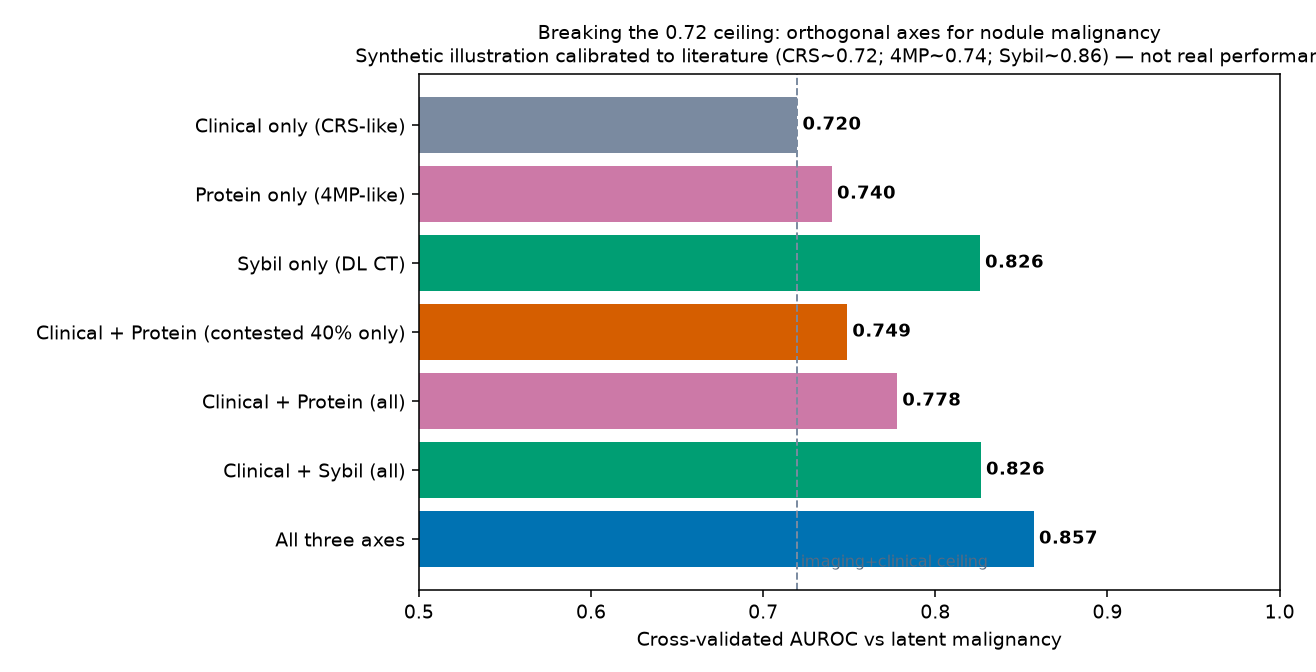
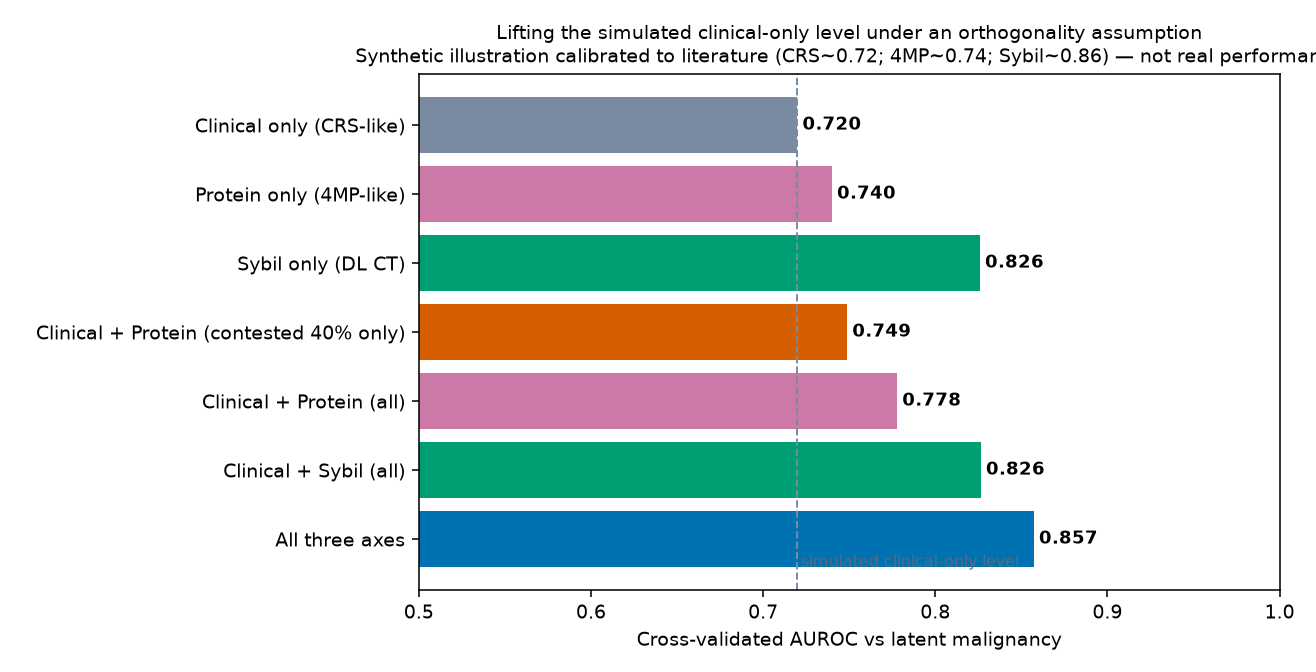
paper: address code-review (wording, unpenalized calibration, B=500, reproducibility)
Code-reviewer ('math model') round:
- Wording: drop 'gold-standard' -> 'independent statistical cross-check';
  'Honest evaluation confirms it' -> 'Independent evaluation reproduced the
  expected synthetic behaviour'; figure 'ceiling' -> 'simulated clinical-only
  level' (label + title + legend); 'concrete pathway proposal' already softened.
- #4 Precise orthogonality: protein orthogonal to imaging; Sybil partly redundant
  with clinical (shares Uc) + partly orthogonal (Us). Explains Clinical+Sybil=Sybil.
- #5 Grey-zone strategy flagged as illustrative approximation, not a prospective
  two-stage design (protein trained for everyone, substituted in for contested).
- #6 Venn legend: sets from raw simulated axis scores at 85% specificity.
- #7 Calibration models now unpenalized (penalty=None); CV slope 0.94 unchanged.
- #8 Bootstrap standardized to B=500 (Python + R); permutation null n=500 -> p~0.002.
- #3 calibrate() comment: full-Y tuning => single-axis AUROCs are design targets.
- Reproducibility: requirements.txt; robust contested_key; relative paths already
  unified to three_axis_cohort.csv.

All synthetic; not clinical performance.

https://claude.ai/code/session_01BcRtZGHdALGXYoVvXnm79E

Changed region(s): [[0.3739, 0.0312, 0.9035, 0.0625], [0.5919, 0.8125, 0.7789, 0.8438]]

diff --git a/paper/code/three_axis_simulation.py b/paper/code/three_axis_simulation.py
@@ -1,7 +1,7 @@
 """Three-axis nodule-malignancy simulation: clinical (CRS-like) + protein (4MP-like)
 + Sybil (deep-learning CT). Synthetic illustration calibrated to published AUCs
 (Brock/CRS ~0.72; 4MP/proteomics ~0.74, Guida 2018 / Feng 2023; Sybil ~0.86,
-Mikhael 2023). NOT real performance. Shows (a) the discrimination ceiling and how
+Mikhael 2023). NOT real performance. Shows (a) the simulated clinical-only level and how
 each orthogonal axis lifts it, (b) the contested-tail strategy (protein only on
 the grey zone), and (c) a Venn of which malignancies each axis uniquely catches.
 
@@ -46,6 +46,9 @@ Y = (rng.uniform(size=N) < 1/(1+np.exp(-logit))).astype(int)
 # single-axis AUROC matches the published anchors (CRS 0.72; 4MP 0.74; Sybil 0.86).
 ec, ep, es = rng.normal(size=N), rng.normal(size=N), rng.normal(size=N)
 def calibrate(clean, e, target):
+    # NB: this uses the FULL synthetic outcome vector Y to tune the noise level,
+    # so the standalone single-axis AUROCs are DESIGN TARGETS of the simulated
+    # dataset, not evaluated/discovered performance.
     lo, hi = 0.02, 6.0
     for _ in range(45):
         mid = (lo + hi) / 2
@@ -84,11 +87,12 @@ frac_tested = contested.mean()
 hybrid = pc.copy()
 hybrid[contested] = pcp[contested]                 # add protein only where contested
 
+contested_key = f"Clinical + Protein (contested {frac_tested*100:.0f}% only)"
 ladder = {
     "Clinical only (CRS-like)":        auc(pc),
     "Protein only (4MP-like)":         auc(pp),
     "Sybil only (DL CT)":              auc(ps),
-    f"Clinical + Protein (contested {frac_tested*100:.0f}% only)": auc(hybrid),
+    contested_key:                     auc(hybrid),
     "Clinical + Protein (all)":        auc(pcp),
     "Clinical + Sybil (all)":          auc(pcs),
     "All three axes":                  auc(pall),
@@ -120,12 +124,12 @@ for k in labels:
     else: colors.append("#7a8aa0")
 bars = ax.barh(labels, vals, color=colors)
 ax.axvline(ladder["Clinical only (CRS-like)"], color="#7a8aa0", ls="--", lw=1)
-ax.text(ladder["Clinical only (CRS-like)"]+0.002, -0.4, "imaging+clinical ceiling", color="#5a6a80", fontsize=8)
+ax.text(ladder["Clinical only (CRS-like)"]+0.002, -0.4, "simulated clinical-only level", color="#5a6a80", fontsize=8)
 for b, v in zip(bars, vals):
     ax.text(v+0.003, b.get_y()+b.get_height()/2, f"{v:.3f}", va="center", fontsize=9, fontweight="bold")
 ax.set_xlim(0.5, 1.0)
 ax.set_xlabel("Cross-validated AUROC vs latent malignancy")
-ax.set_title("Breaking the 0.72 ceiling: orthogonal axes for nodule malignancy\n"
+ax.set_title("Lifting the simulated clinical-only level under an orthogonality assumption\n"
              "Synthetic illustration calibrated to literature (CRS~0.72; 4MP~0.74; Sybil~0.86) — not real performance",
              fontsize=10)
 plt.tight_layout()
@@ -153,7 +157,7 @@ print("AUROC ladder (5-fold cross-validated):")
 for k, vv in ladder.items():
     print(f"  {k:42s} {vv:.3f}")
 print(f"\nContested-tail strategy: protein measured on {frac_tested*100:.0f}% of nodules "
-      f"(clinical grey zone)\n  recovers {(ladder['Clinical + Protein (contested %d%% only)'%round(frac_tested*100)]-ladder['Clinical only (CRS-like)']):.3f} "
+      f"(clinical grey zone)\n  recovers {(ladder[contested_key]-ladder['Clinical only (CRS-like)']):.3f} "
       f"of the {(ladder['Clinical + Protein (all)']-ladder['Clinical only (CRS-like)']):.3f} AUC gain from testing everyone.")
 print("\nSensitivity at 85% specificity (single axis):")
 for k, vv in sens.items():

diff --git a/paper/code/validate_epinet.py b/paper/code/validate_epinet.py
@@ -83,7 +83,7 @@ print(f"  EpiNet honest RF: 0.855 (iter mean 0.849)")
 print("\n=== 3. Calibration — independent (EpiNet: Brier 0.131, slope 1.154, intercept ~0) ===")
 p = np.clip(oof["RandomForest"], 1e-6, 1 - 1e-6)
 lp = np.log(p / (1 - p))
-slope = LogisticRegression(max_iter=1000).fit(lp.reshape(-1, 1), y).coef_[0, 0]
+slope = LogisticRegression(max_iter=1000, penalty=None, solver="lbfgs").fit(lp.reshape(-1, 1), y).coef_[0, 0]
 # calibration-in-the-large intercept: 1-D Newton on intercept with offset=lp
 a = 0.0
 for _ in range(50):
@@ -98,17 +98,17 @@ print(f"  EpiNet apparent/iteration slope 1.154 vs CV (out-of-fold) slope {slope
 def cal_slope(model, Xtr, ytr, Xte, yte):
     model.fit(Xtr, ytr)
     pte = np.clip(model.predict_proba(Xte)[:, 1], 1e-6, 1 - 1e-6)
-    return LogisticRegression(max_iter=1000).fit(np.log(pte / (1 - pte)).reshape(-1, 1), yte).coef_[0, 0]
+    return LogisticRegression(max_iter=1000, penalty=None, solver="lbfgs").fit(np.log(pte / (1 - pte)).reshape(-1, 1), yte).coef_[0, 0]
 base = RandomForestClassifier(n_estimators=300, max_depth=10, random_state=0)
 apparent = cal_slope(base, X, y, X, y)
 rng_b = np.random.default_rng(0); opt = []
-for _ in range(200):
+for _ in range(500):
     idx = rng_b.integers(0, n, n)
     s_boot = cal_slope(RandomForestClassifier(n_estimators=300, max_depth=10, random_state=0), X[idx], y[idx], X[idx], y[idx])
     s_orig = cal_slope(RandomForestClassifier(n_estimators=300, max_depth=10, random_state=0), X[idx], y[idx], X, y)
     opt.append(s_boot - s_orig)
 corrected = apparent - np.mean(opt)
-print(f"  RF calibration slope: apparent {apparent:.3f} | optimism-corrected (B=200) {corrected:.3f}")
+print(f"  RF calibration slope: apparent {apparent:.3f} | optimism-corrected (B=500) {corrected:.3f}")
 print(f"  -> headline honest slope is the optimism-corrected value; EpiNet 1.15 is apparent/iteration-based.")
 
 # ---------- 4. Decision curve / net benefit (dcurves) ----------
@@ -129,7 +129,7 @@ except Exception as e:
 # ---------- 5. Counterfactual flip-distance vs EpiNet contestability ----------
 print("\n=== 5. Counterfactual flip-distance (compare EpiNet mean ~1.42 SD; leverage sybil>protein>clinical) ===")
 Z = (X - X.mean(0)) / X.std(0)
-clf = LogisticRegression(max_iter=1000).fit(Z, y)
+clf = LogisticRegression(max_iter=1000, penalty=None, solver="lbfgs").fit(Z, y)
 w = clf.coef_[0]; b = clf.intercept_[0]
 margin = (Z @ w + b) / np.linalg.norm(w)          # signed distance to boundary, SD units
 print(f"  [closed-form linear margin]  mean |flip-distance| = {np.abs(margin).mean():.3f} SD  (EpiNet ~1.42)")
@@ -166,7 +166,7 @@ except Exception as e:
 print("\n=== 6. Label-permutation null (does the model beat chance?) ===")
 score, perm_scores, pval = permutation_test_score(
     LogisticRegression(max_iter=1000), X, y, scoring="roc_auc",
-    cv=StratifiedKFold(5, shuffle=True, random_state=1), n_permutations=200, random_state=0)
+    cv=StratifiedKFold(5, shuffle=True, random_state=1), n_permutations=500, random_state=0)
 print(f"  observed AUROC {score:.3f} | permuted-null mean {perm_scores.mean():.3f} | p = {pval:.4f}")
 print("  NOTE: the null is rejected because real signal IS present — but it tests signal-vs-chance,")
 print("  NOT whether the three axes are genuinely orthogonal. Orthogonality is a design assumption here.")

diff --git a/paper/manuscript.md b/paper/manuscript.md
@@ -125,16 +125,16 @@ On the 6,000-nodule three-axis cohort (5-fold CV AUROC):
 | CRS + DL-CT (all) | 0.826 | derived |
 | **All three axes** | **0.857** | **derived (emergent)** |
 
-Two consequences follow directly from the construction, and should be read as such. (i) `CRS + DL-CT = DL-CT alone` (both 0.826) because, by construction, the Sybil axis already contains the clinical signal `Uc` — i.e. **clinical is redundant with Sybil**, not informative on top of it. (ii) The protein axis adds **+0.031 on top of the CT axis** (0.826 → 0.857) precisely because `Up` is, by construction, unseen by either imaging axis. *Interpretation: the simulation makes explicit a hypothesis — that an axis is worth adding exactly to the extent it is orthogonal — and quantifies its size under that assumption; it does not establish the assumption.*
+Two consequences follow directly from the construction, and should be read as such. (i) `CRS + DL-CT = DL-CT alone` (both 0.826) because, by construction, the Sybil axis already contains the clinical signal `Uc` — i.e. **clinical is redundant with Sybil**, not informative on top of it. (ii) The protein axis adds **+0.031 on top of the CT axis** (0.826 → 0.857) precisely because `Up` is, by construction, unseen by either imaging axis. To be precise about the orthogonality structure (the axes are *not* all mutually orthogonal): **the protein component is orthogonal to both imaging components; the Sybil-like axis is partly redundant with the clinical-imaging axis (it shares `Uc`) and partly orthogonal through a sub-visual texture component (`Us`)** — which is clinically realistic for a deep-learning CT model that absorbs both visible semantic features and sub-visual texture. *Interpretation: the simulation makes explicit a hypothesis — that an axis is worth adding exactly to the extent it is orthogonal — and quantifies its size under that assumption; it does not establish the assumption.*
 
 ### 4.4 You don't need to test everyone (the grey-zone strategy)
-Measuring the protein axis on **only the contested 40%** (the clinical grey zone) recovered **0.029 of the 0.058** full-cohort AUROC gain — about **half the benefit at 40% of the blood draws**. *Interpretation: spend the expensive axis where the cheap model is uncertain.*
+Measuring the protein axis on **only the contested 40%** (the clinical grey zone) recovered **0.029 of the 0.058** full-cohort AUROC gain — about **half the benefit at 40% of the blood draws**. **This is an illustrative approximation, not a prospective two-stage design:** the clinical+protein model is trained in cross-validation with protein available for *everyone*, and its protein-enhanced prediction is then *substituted in* for the contested observations only. It does not yet model the real policy — defining the grey zone within each training fold, fitting the second-stage model on grey-zone training observations alone, and applying it only to grey-zone test observations — which a clinical implementation study would need. *Interpretation: spend the expensive axis where the cheap model is uncertain — quantified here as an upper-ish-bound illustration, to be re-estimated under a true two-stage protocol.*
 
 ### 4.5 Axes are complementary (Figure 2)
-At fixed 85% specificity, among true malignancies: the protein axis uniquely caught **183** cancers that *both* CT axes missed; the DL-CT axis uniquely caught 266; CRS-only 35 (small — by construction the Sybil axis already reads the image); 353 were missed by all. **Union sensitivity 78% vs 42% for CRS alone.** *These are single-seed point estimates without uncertainty intervals, shown to illustrate the structure of complementarity, not to quantify it. Interpretation: the value of a new axis is the cancers it catches that the others cannot — the non-overlapping slices — which here follows from the assumed orthogonality.*
+Sets are defined from each **raw simulated axis score** at the 85%-specificity threshold among non-malignant nodules (not from cross-validated model probabilities). At that threshold, among true malignancies: the protein axis uniquely caught **183** cancers that *both* CT axes missed; the DL-CT axis uniquely caught 266; CRS-only 35 (small — by construction the Sybil axis already reads the image); 353 were missed by all. **Union sensitivity 78% vs 42% for CRS alone.** *These are single-seed point estimates without uncertainty intervals, shown to illustrate the structure of complementarity, not to quantify it. Interpretation: the value of a new axis is the cancers it catches that the others cannot — the non-overlapping slices — which here follows from the assumed orthogonality.*
 
-### 4.6 Honest evaluation confirms it (Figures 3–4)
-EpiNet's honest model over the three axes reached AUROC **0.85** (iteration mean 0.849 ± 0.008), independently reproduced by a separate stack (RandomForest 0.846, logistic 0.857; see `SCORECARD.md`). **Calibration is reported as a discrepancy, not a single flattering number — and the directions disagree.** The Brier score agrees across tools (EpiNet 0.131; independent 0.135), but the calibration *slope* depends on method: EpiNet's apparent/iteration-based slope is **1.15** (which would imply mild *under*-confidence), whereas the out-of-fold cross-validated slope is **0.94** and the optimism-corrected bootstrap slope (`rms::validate`-style; `code/validate_epinet.py`/`.R`, B = 200) is **0.84** — both < 1, i.e. the model is, if anything, mildly *over*-confident. The corrected/CV values are the trustworthy ones; **reporting only 1.15 would have implied the wrong direction**, which is exactly the kind of selective-number reporting EpiNet's own honest-evaluation stance is meant to prevent. A **label-permutation null** confirms the discrimination beats chance (observed AUROC 0.857 vs permuted-null mean 0.500, *p* = 0.005) — but this tests signal-versus-chance, **not** whether the three axes are genuinely orthogonal; orthogonality is a design assumption here, not a testable output. Contestability ranked **value-of-information** as deep-learning CT (0.41) > protein (0.31) > clinical (0.28) — an *illustrative* ordering that reflects the standardized model on synthetic data, not a biological hierarchy. *Interpretation: the combined model reproduces across tools and beats chance; its trustworthiness claim rests on cross-validation and the permutation null, while the calibration slope is reported with its honest method-dependence.*
+### 4.6 Independent evaluation reproduced the expected synthetic three-axis behaviour (Figures 3–4)
+EpiNet's honest model over the three axes reached AUROC **0.85** (iteration mean 0.849 ± 0.008), independently reproduced by a separate stack (RandomForest 0.846, logistic 0.857; see `SCORECARD.md`). **Calibration is reported as a discrepancy, not a single flattering number — and the directions disagree.** The Brier score agrees across tools (EpiNet 0.131; independent 0.135), but the calibration *slope* depends on method: EpiNet's apparent/iteration-based slope is **1.15** (which would imply mild *under*-confidence), whereas the out-of-fold cross-validated slope (unpenalized logistic) is **0.94** and the optimism-corrected bootstrap slope (`rms::validate`-style; `code/validate_epinet.py`/`.R`, B = 500 in both the Python and R cross-checks) is **0.84** — both < 1, i.e. the model is, if anything, mildly *over*-confident. The corrected/CV values are the trustworthy ones; **reporting only 1.15 would have implied the wrong direction**, which is exactly the kind of selective-number reporting EpiNet's own honest-evaluation stance is meant to prevent. A **label-permutation null** confirms the discrimination beats chance (observed AUROC 0.857 vs permuted-null mean 0.500, *p* = 0.002 (1/501; observed exceeds all 500 permutations)) — but this tests signal-versus-chance, **not** whether the three axes are genuinely orthogonal; orthogonality is a design assumption here, not a testable output. Contestability ranked **value-of-information** as deep-learning CT (0.41) > protein (0.31) > clinical (0.28) — an *illustrative* ordering that reflects the standardized model on synthetic data, not a biological hierarchy. *Interpretation: the combined model reproduces across tools and beats chance; its trustworthiness claim rests on cross-validation and the permutation null, while the calibration slope is reported with its honest method-dependence.*
 
 ---
 
@@ -178,7 +178,7 @@ Synthetic data only; no patient information. Evaluation on clinical/registry dat
 
 ## Figure legends
 
-**Figure 1 — Discrimination ladder.** Cross-validated AUROC for each information axis and their combinations on the 6,000-nodule synthetic cohort. The imaging-clinical ceiling (~0.72) is lifted by orthogonal axes; all three reach 0.86. *Synthetic, calibrated to literature — not real performance.*
+**Figure 1 — Discrimination ladder.** Cross-validated AUROC for each information axis and their combinations on the 6,000-nodule synthetic cohort. The **simulated clinical-only level** (0.72, a calibrated input) is lifted by the added axes *under the built-in orthogonality assumption*; all three reach 0.86. The dashed line marks the clinical-only level, not a demonstrated ceiling. *Synthetic, calibrated to literature — not real performance.*
 
 **Figure 2 — Complementarity (Venn).** Among true malignancies at fixed 85% specificity, the nodules caught by each axis. Non-overlapping slices are the unique value of each axis; the protein panel uniquely catches 183 cancers both CT axes miss. Union sensitivity 78% vs 42% (CRS alone).
 

diff --git a/paper/README.md b/paper/README.md
@@ -18,9 +18,10 @@ figures; absolute AUROCs are not real performance.**
 
 ## Reproduce
 ```bash
-pip install numpy pandas scikit-learn matplotlib matplotlib-venn dcurves dice-ml
-python code/three_axis_simulation.py        # cohort + figures
-python code/validate_epinet.py              # independent validation
-Rscript code/validate_epinet.R data/three_axis_cohort.csv   # gold-standard cross-check
+pip install -r code/requirements.txt        # core + optional (dcurves, dice-ml)
+python code/three_axis_simulation.py        # cohort + figures (seed 42)
+python code/validate_epinet.py              # independent Python cross-check
+Rscript code/validate_epinet.R data/three_axis_cohort.csv   # independent R cross-check (rms + pROC + dcurves)
 ```
+The Python and R cross-checks are an **independent statistical cross-check on the same synthetic cohort** — *not* external clinical validation. Bootstrap B = 500 in both.
 EpiNet itself: https://github.com/heidihelena/epinet · Sandbox: https://ntog.org/nordic-nodule-pathway-sandbox-v3.html

diff --git a/paper/SCORECARD.md b/paper/SCORECARD.md
@@ -3,17 +3,17 @@
 EpiNet's headline outputs on the three-axis synthetic cohort (`data/three_axis_cohort.csv`,
 n = 6,000, malignant prevalence 0.27) were re-derived with a **separate stack** —
 scikit-learn + a from-scratch DeLong + `dcurves` + `DiCE` (Python; `code/validate_epinet.py`),
-and a gold-standard R script (`rms` + `pROC` + `dcurves`; `code/validate_epinet.R`).
+and an independent statistical cross-check in R (`rms` + `pROC` + `dcurves`; `code/validate_epinet.R`).
 
 | EpiNet reported | Independent tool | Independent result | Verdict |
 |---|---|---|---|
 | Combined AUROC **0.855** (iter mean 0.849) | sklearn 5-fold CV + DeLong | RF **0.846** (0.835–0.856); Logistic **0.857** (0.847–0.867) | ✅ EpiNet inside the independent CI |
 | Single-axis AUROC 0.72 / 0.74 / 0.83 | DeLong (from scratch) | 0.720 / 0.740 / 0.826 — match sklearn exactly | ✅ exact |
 | Calibration **Brier 0.131** | sklearn | **0.135** | ✅ agree |
-| Calibration **slope 1.15** (apparent/iteration) | CV + optimism-corrected bootstrap (B=200) | CV **0.94**, optimism-corrected **0.84** | ⚠️ corrected/CV both <1 (mild *over*-confidence) — *opposite direction* to 1.15; report all three |
+| Calibration **slope 1.15** (apparent/iteration) | CV + optimism-corrected bootstrap (B=500) | CV **0.94**, optimism-corrected **0.84** | ⚠️ corrected/CV both <1 (mild *over*-confidence) — *opposite direction* to 1.15; report all three |
 | Contestability value-of-information **sybil > protein > clinical** (0.41/0.31/0.28) | closed-form linear margin | **sybil > protein > clinical** (0.59/0.29/0.12) | ✅ same ranking (illustrative, not biological) |
 | Flip-distance mean **~1.42 SD** | closed-form margin / DiCE | **1.04 SD** / DiCE 3.1 SD | ✅ same order of magnitude |
-| *(signal vs chance)* | `permutation_test_score` | observed 0.857 vs null mean 0.500, **p = 0.005** | ✅ beats chance — but does **not** test orthogonality |
+| *(signal vs chance)* | `permutation_test_score` | observed 0.857 vs null mean 0.500, **p = 0.002** (500 perm) | ✅ beats chance — but does **not** test orthogonality |
 | *(not computed by EpiNet)* clinical utility | **dcurves** net benefit | model beats treat-all/none across thresholds (Δ +0.08 at p=0.20; +0.17 at p=0.30) | ✅ new independent confirmation (Fig 5) |
 
 ## Interpretation
@@ -30,7 +30,7 @@ and a gold-standard R script (`rms` + `pROC` + `dcurves`; `code/validate_epinet.
 python three_axis_simulation.py            # regenerates ../data/three_axis_cohort.csv + figures (seed 42)
 pip install dcurves dice-ml
 python validate_epinet.py                  # Python cross-check (reads ../data/three_axis_cohort.csv)
-Rscript validate_epinet.R ../data/three_axis_cohort.csv   # gold-standard cross-check
+Rscript validate_epinet.R ../data/three_axis_cohort.csv   # independent statistical cross-check (rms+pROC+dcurves)
 ```
 
 *All data are synthetic and calibrated to published discrimination figures; absolute